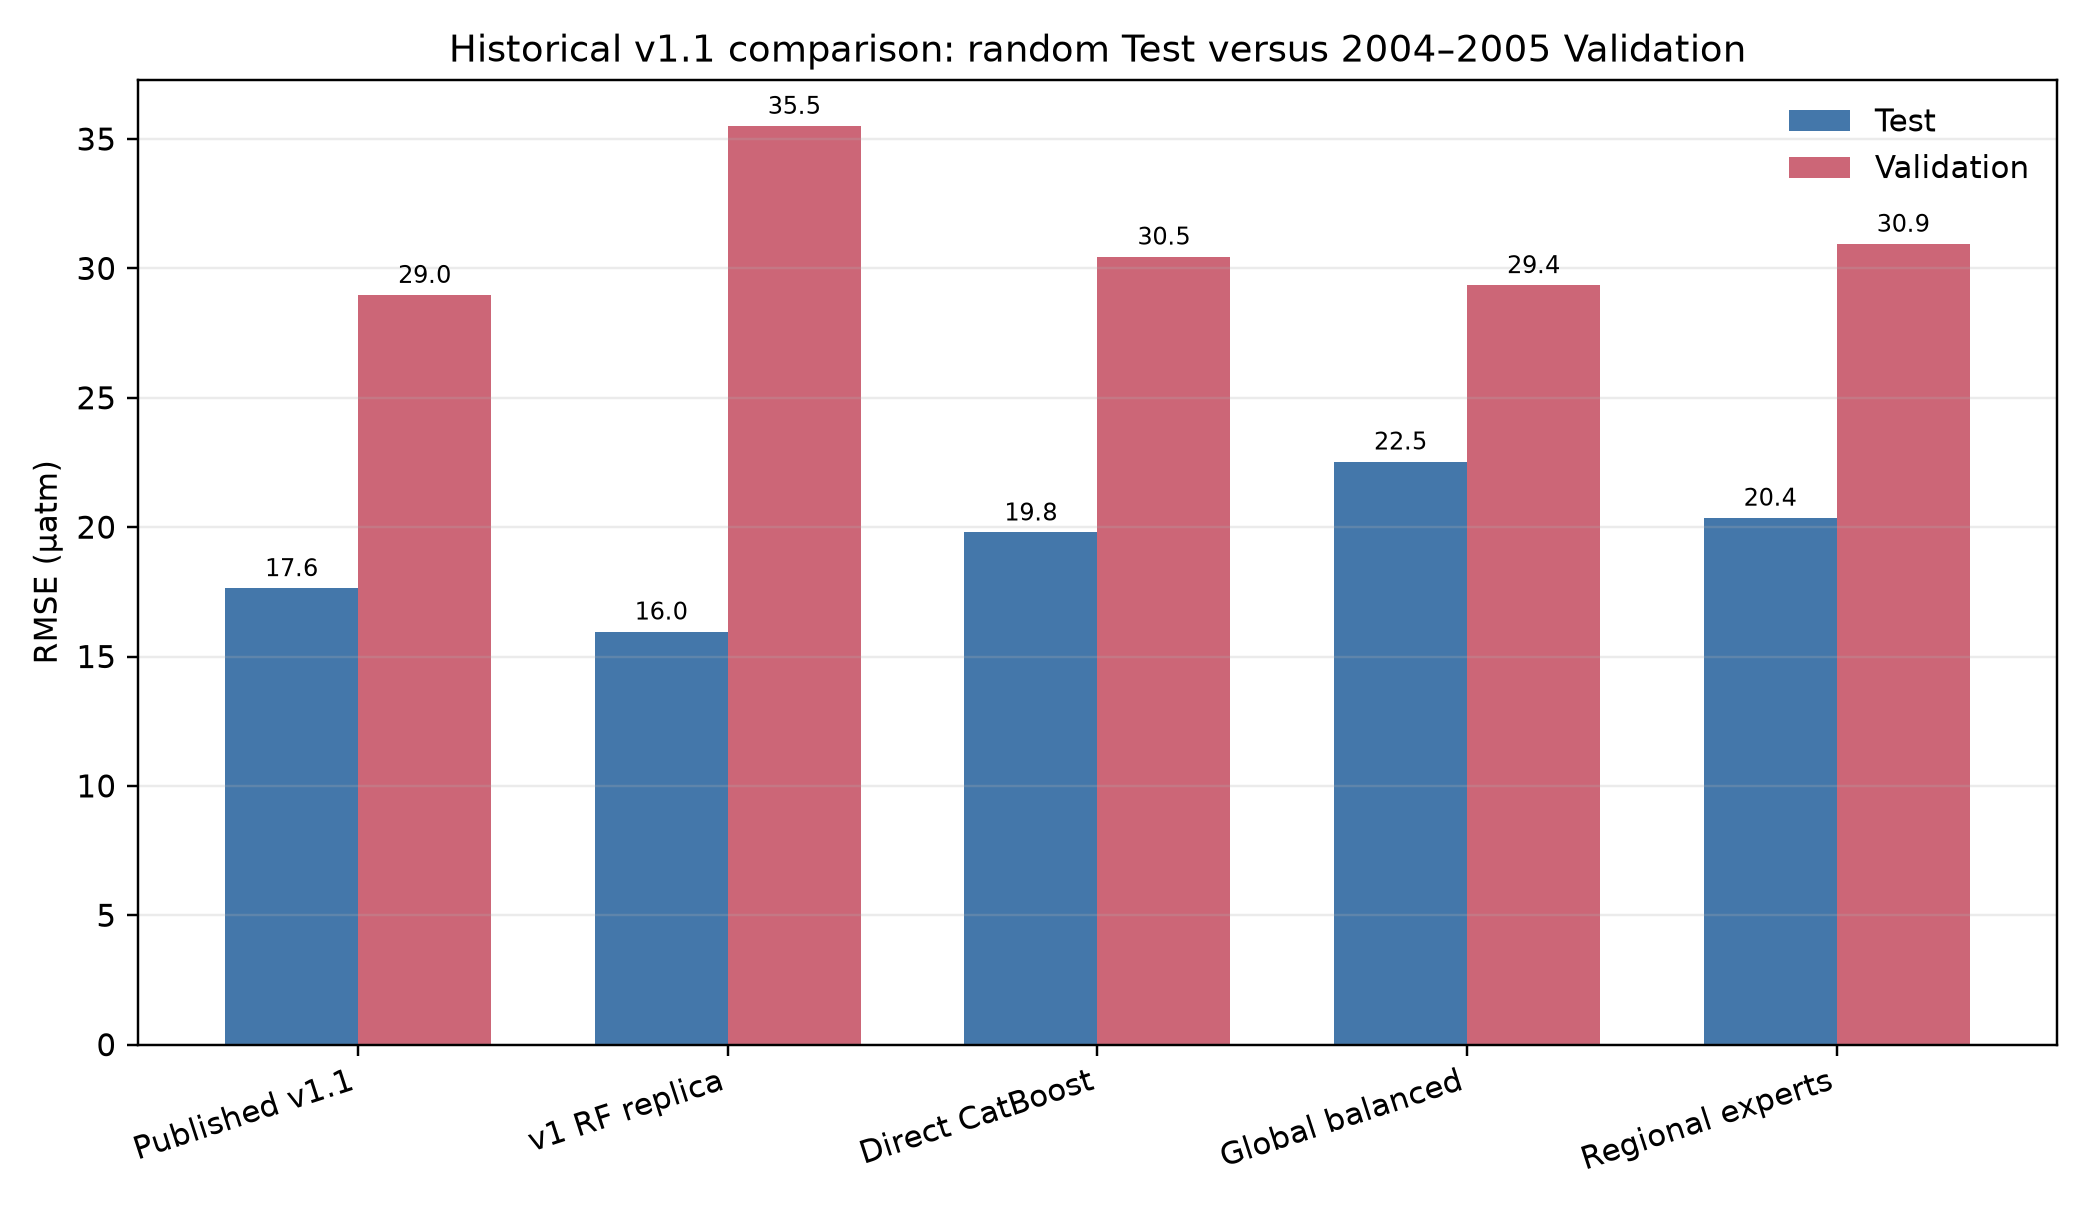
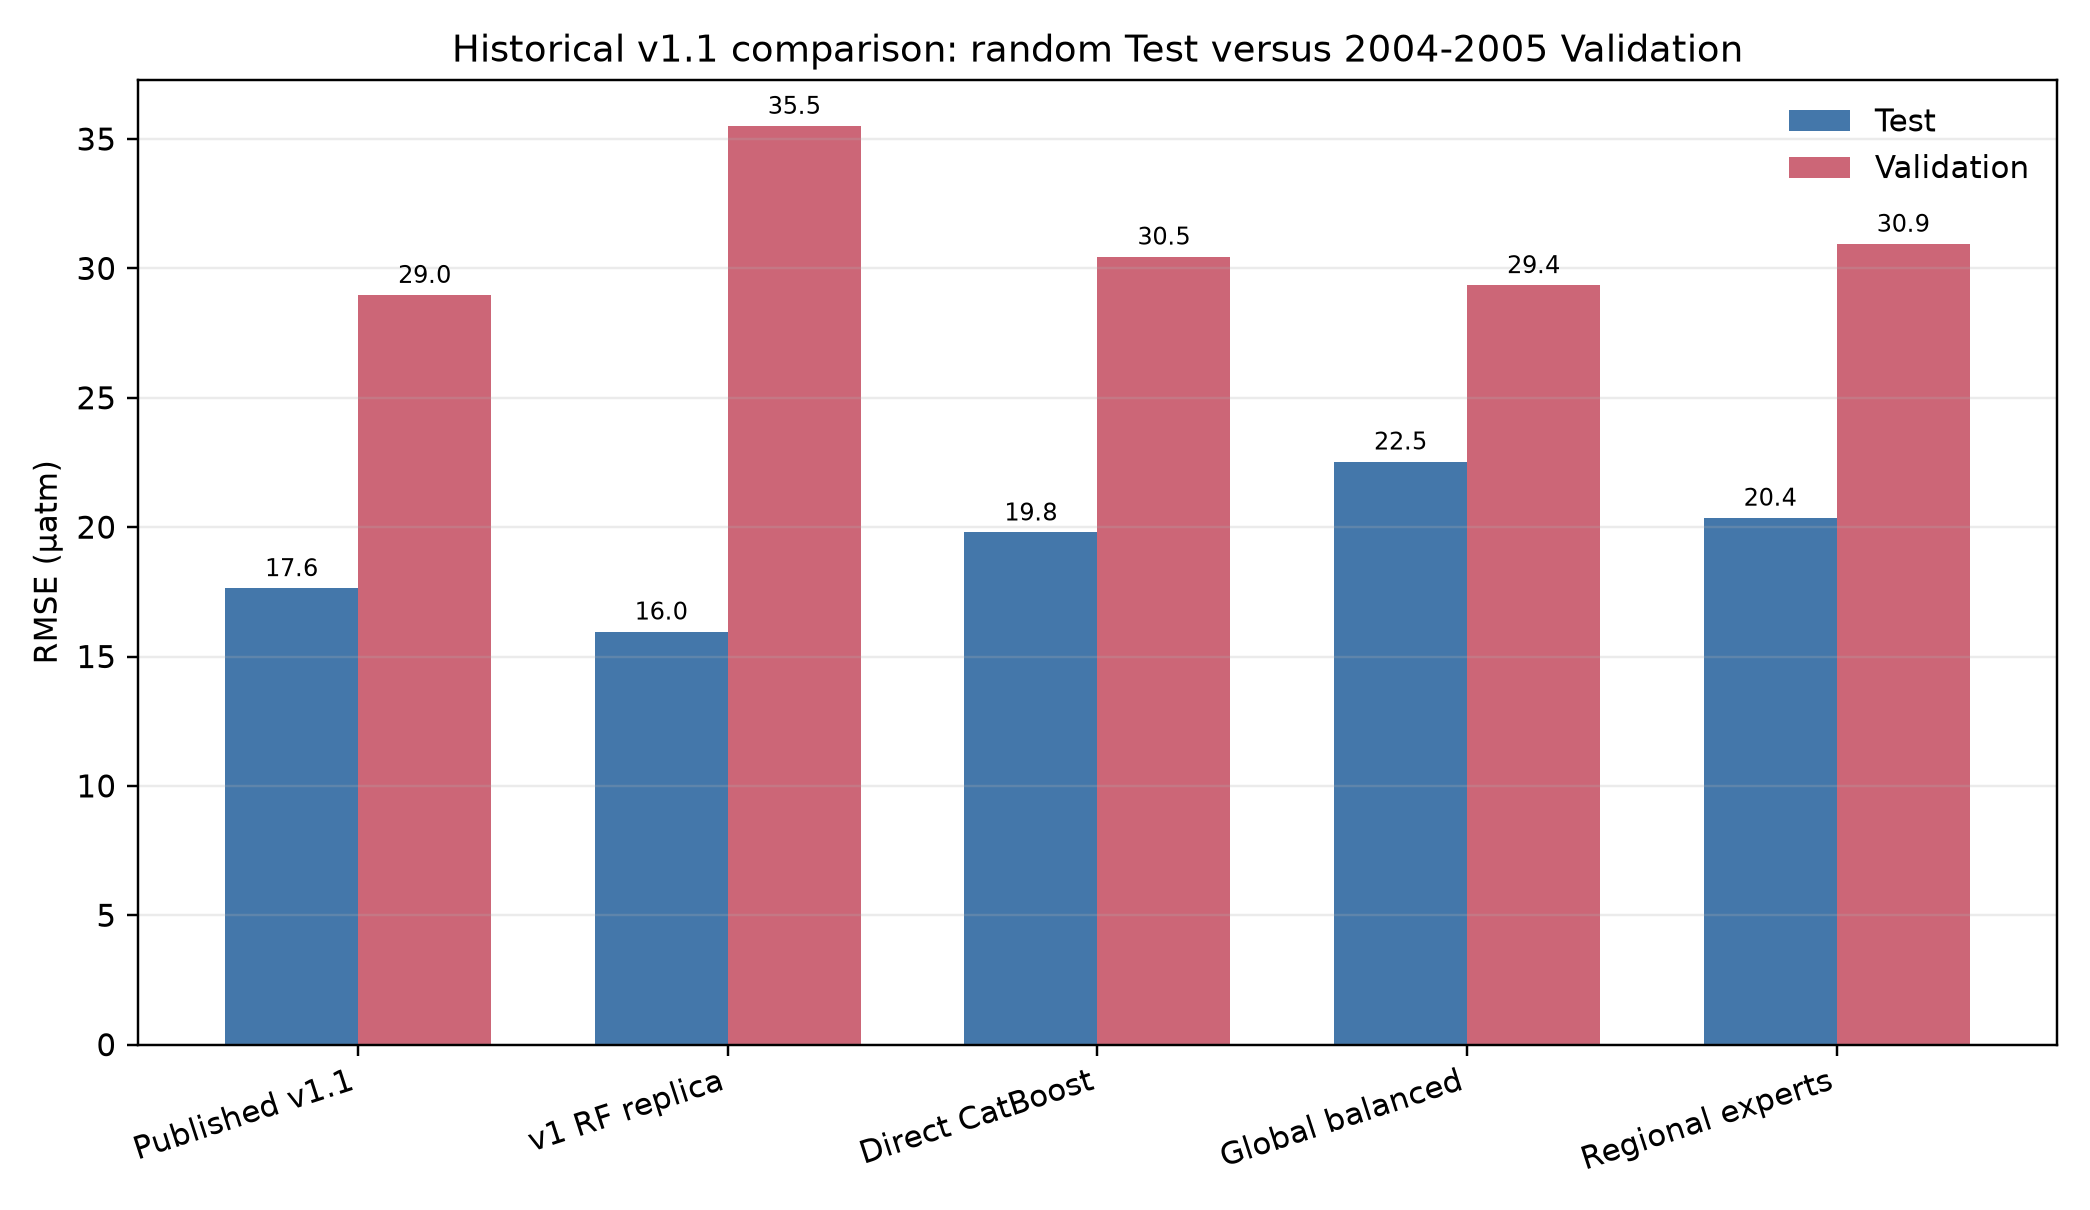
docs: record verified v1.1 product provenance

Changed region(s): [[0.2177, 0.0306, 0.8397, 0.0612]]

diff --git a/v2.0/scripts/build_p1_fco2_v11_parity_report.py b/v2.0/scripts/build_p1_fco2_v11_parity_report.py
@@ -244,6 +244,19 @@ def main() -> int:
         "published_v11_reference.csv",
     ):
         shutil.copy2(OUTPUT / name, tables / name)
+    product_provenance = {
+        "source": "https://zenodo.org/records/14038561",
+        "filename": "ReCAD-NAC-pCO2_with_err_v1.1.nc",
+        "bytes": 955486384,
+        "official_md5": "0d414d5c84698059f04f0ff2ad2e69ca",
+        "verified_local_md5": "0d414d5c84698059f04f0ff2ad2e69ca",
+        "dimensions": {"time": 348, "lat": 220, "lon": 520},
+        "variables": ["err", "fco2_product", "pco2_product"],
+        "contains_observation_labels_or_split_masks": False,
+    }
+    (tables / "v11_product_provenance.json").write_text(
+        json.dumps(product_provenance, indent=2), encoding="utf-8"
+    )
 
     captions = {
         "fig01_historical_aggregate.png": "Figure 1. Aggregate historical comparison on the original v1.1 random Test and 2004-2005 Validation masks. The exact RF replica wins the random split but fails temporal transfer; the global balanced residual model nearly reproduces the published Validation value but misses the random Test threshold.",
@@ -311,6 +324,8 @@ Issue #32 closes as a negative but decisive benchmark. The exact old RF is retai
 ## Reproducibility
 
 Aggregate source tables, decisions, protocol hashes, and figure captions are stored with this report. Row-level predictions and checkpoints remain in the ignored experiment output and are referenced by hashes in `archive_manifest.json`.
+
+The official Zenodo v1.1 product was retrieved through the remote staging server and verified locally against the published MD5 (`0d414d5c84698059f04f0ff2ad2e69ca`). It contains the reconstructed fCO2/pCO2 fields and uncertainty, but no SOCAT labels or split masks; its metadata is archived in `tables/v11_product_provenance.json`.
 """
     (ARCHIVE / "REPORT.md").write_text(report, encoding="utf-8")
 

diff --git a/v2.0/docs/experiment_archive/p1_fco2_v11_parity_v2.2/REPORT.md b/v2.0/docs/experiment_archive/p1_fco2_v11_parity_v2.2/REPORT.md
@@ -4,7 +4,7 @@
 
 ## Why this experiment was needed
 
-Issue #32 tests whether the v2 design can reproduce and exceed ReCAD v1.1 on its original North American Atlantic domain before claiming a global product. Two questions are separated: whether a model can beat the published random and 2004–2005 numbers, and whether it transfers across cruises, spatial blocks, and future years without using held labels.
+Issue #32 tests whether the v2 design can reproduce and exceed ReCAD v1.1 on its original North American Atlantic domain before claiming a global product. Two questions are separated: whether a model can beat the published random and 2004-2005 numbers, and whether it transfers across cruises, spatial blocks, and future years without using held labels.
 
 ## Protocol and models
 
@@ -12,7 +12,7 @@ Stage A was committed before training. It uses exact v1.1 geometric regions, the
 
 ## Historical comparison
 
-| candidate | random Test RMSE | 2004–2005 RMSE | interpretation |
+| candidate | random Test RMSE | 2004-2005 RMSE | interpretation |
 | --- | ---: | ---: | --- |
 | Published v1.1 | 17.642 | 28.975 | Historical reported product after local calibration |
 | v1 RF replica | 15.964 | 35.507 | Excellent interpolation; poor temporal transfer |
@@ -24,19 +24,19 @@ The dual-parity gate requires RMSE below both 17.642 and 28.975 µatm. No honest
 
 ![Historical aggregate comparison](figures/fig01_historical_aggregate.png)
 
-Figure 1. Aggregate historical comparison on the original v1.1 random Test and 2004–2005 Validation masks. The exact RF replica wins the random split but fails temporal transfer; the global balanced residual model nearly reproduces the published Validation value but misses the random Test threshold.
+Figure 1. Aggregate historical comparison on the original v1.1 random Test and 2004-2005 Validation masks. The exact RF replica wins the random split but fails temporal transfer; the global balanced residual model nearly reproduces the published Validation value but misses the random Test threshold.
 
 ![Historical regional comparison](figures/fig02_historical_regions.png)
 
-Figure 2. Historical 2004–2005 RMSE by the six published regions. No Stage-A architecture uniformly improves the published table. The table is comparison-only because the v1.1 local calibration used SOCAT labels across the full period.
+Figure 2. Historical 2004-2005 RMSE by the six published regions. No Stage-A architecture uniformly improves the published table. The table is comparison-only because the v1.1 local calibration used SOCAT labels across the full period.
 
 ![Random and temporal tradeoff](figures/fig03_random_temporal_tradeoff.png)
 
-Figure 3. Random-split and 2004–2005 errors for each honest candidate. Dashed lines show the published v1.1 values; the shaded lower-left quadrant is the preregistered dual-parity region. No candidate enters it without label-informed post-calibration.
+Figure 3. Random-split and 2004-2005 errors for each honest candidate. Dashed lines show the published v1.1 values; the shaded lower-left quadrant is the preregistered dual-parity region. No candidate enters it without label-informed post-calibration.
 
 ## v1.1 method audit
 
-The archived v1 code first trains a 300-tree bagged ensemble with minimum leaf size 1 and all seven predictors at every split (`v1/trainRFER7.m`). The reconstruction notebook then fits local linear coefficients between the RF product and SOCAT across the full time series before calculating the reported split metrics (`v1/Data_Calibrate_SOMFNN_coastalv2.ipynb`, calibration cells 25–31 and metric cells 39–41). Because 2004–2005 SOCAT participates in that calibration, the published “Validation” result is not independent of the final calibrated product. This does not invalidate the old product, but it prevents using 28.975 µatm as proof of out-of-time generalization.
+The archived v1 code first trains a 300-tree bagged ensemble with minimum leaf size 1 and all seven predictors at every split (`v1/trainRFER7.m`). The reconstruction notebook then fits local linear coefficients between the RF product and SOCAT across the full time series before calculating the reported split metrics (`v1/Data_Calibrate_SOMFNN_coastalv2.ipynb`, calibration cells 25-31 and metric cells 39-41). Because 2004-2005 SOCAT participates in that calibration, the published “Validation” result is not independent of the final calibrated product. This does not invalidate the old product, but it prevents using 28.975 µatm as proof of out-of-time generalization.
 
 ## Strict transfer audit
 
@@ -48,8 +48,10 @@ Figure 4. Skill versus the training-only seasonal-trend background on grade A/B 
 
 ## Decision and next experiment
 
-Issue #32 closes as a negative but decisive benchmark. The exact old RF is retained as an interpolation baseline, while the global balanced residual model is retained as the temporal-transfer baseline. Neither is a publishable global architecture. The next global experiment must train a global backbone with soft regional adapters or mixture-of-experts, optimize macro-region and worst-region loss, and use strictly cross-fitted SSS. Model selection must use cruise, spatial-block, and forward outer folds; the old random split and 2004–2005 table remain descriptive only. Current locked and external-independent labels stay sealed until that candidate passes the development gates.
+Issue #32 closes as a negative but decisive benchmark. The exact old RF is retained as an interpolation baseline, while the global balanced residual model is retained as the temporal-transfer baseline. Neither is a publishable global architecture. The next global experiment must train a global backbone with soft regional adapters or mixture-of-experts, optimize macro-region and worst-region loss, and use strictly cross-fitted SSS. Model selection must use cruise, spatial-block, and forward outer folds; the old random split and 2004-2005 table remain descriptive only. Current locked and external-independent labels stay sealed until that candidate passes the development gates.
 
 ## Reproducibility
 
 Aggregate source tables, decisions, protocol hashes, and figure captions are stored with this report. Row-level predictions and checkpoints remain in the ignored experiment output and are referenced by hashes in `archive_manifest.json`.
+
+The official Zenodo v1.1 product was retrieved through the remote staging server and verified locally against the published MD5 (`0d414d5c84698059f04f0ff2ad2e69ca`). It contains the reconstructed fCO2/pCO2 fields and uncertainty, but no SOCAT labels or split masks; its metadata is archived in `tables/v11_product_provenance.json`.

diff --git a/v2.0/docs/experiment_archive/p1_fco2_v11_parity_v2.2/CAPTIONS.md b/v2.0/docs/experiment_archive/p1_fco2_v11_parity_v2.2/CAPTIONS.md
@@ -2,15 +2,15 @@
 
 ## fig01_historical_aggregate.png
 
-Figure 1. Aggregate historical comparison on the original v1.1 random Test and 2004–2005 Validation masks. The exact RF replica wins the random split but fails temporal transfer; the global balanced residual model nearly reproduces the published Validation value but misses the random Test threshold.
+Figure 1. Aggregate historical comparison on the original v1.1 random Test and 2004-2005 Validation masks. The exact RF replica wins the random split but fails temporal transfer; the global balanced residual model nearly reproduces the published Validation value but misses the random Test threshold.
 
 ## fig02_historical_regions.png
 
-Figure 2. Historical 2004–2005 RMSE by the six published regions. No Stage-A architecture uniformly improves the published table. The table is comparison-only because the v1.1 local calibration used SOCAT labels across the full period.
+Figure 2. Historical 2004-2005 RMSE by the six published regions. No Stage-A architecture uniformly improves the published table. The table is comparison-only because the v1.1 local calibration used SOCAT labels across the full period.
 
 ## fig03_random_temporal_tradeoff.png
 
-Figure 3. Random-split and 2004–2005 errors for each honest candidate. Dashed lines show the published v1.1 values; the shaded lower-left quadrant is the preregistered dual-parity region. No candidate enters it without label-informed post-calibration.
+Figure 3. Random-split and 2004-2005 errors for each honest candidate. Dashed lines show the published v1.1 values; the shaded lower-left quadrant is the preregistered dual-parity region. No candidate enters it without label-informed post-calibration.
 
 ## fig04_strict_outer_skill.png
 
